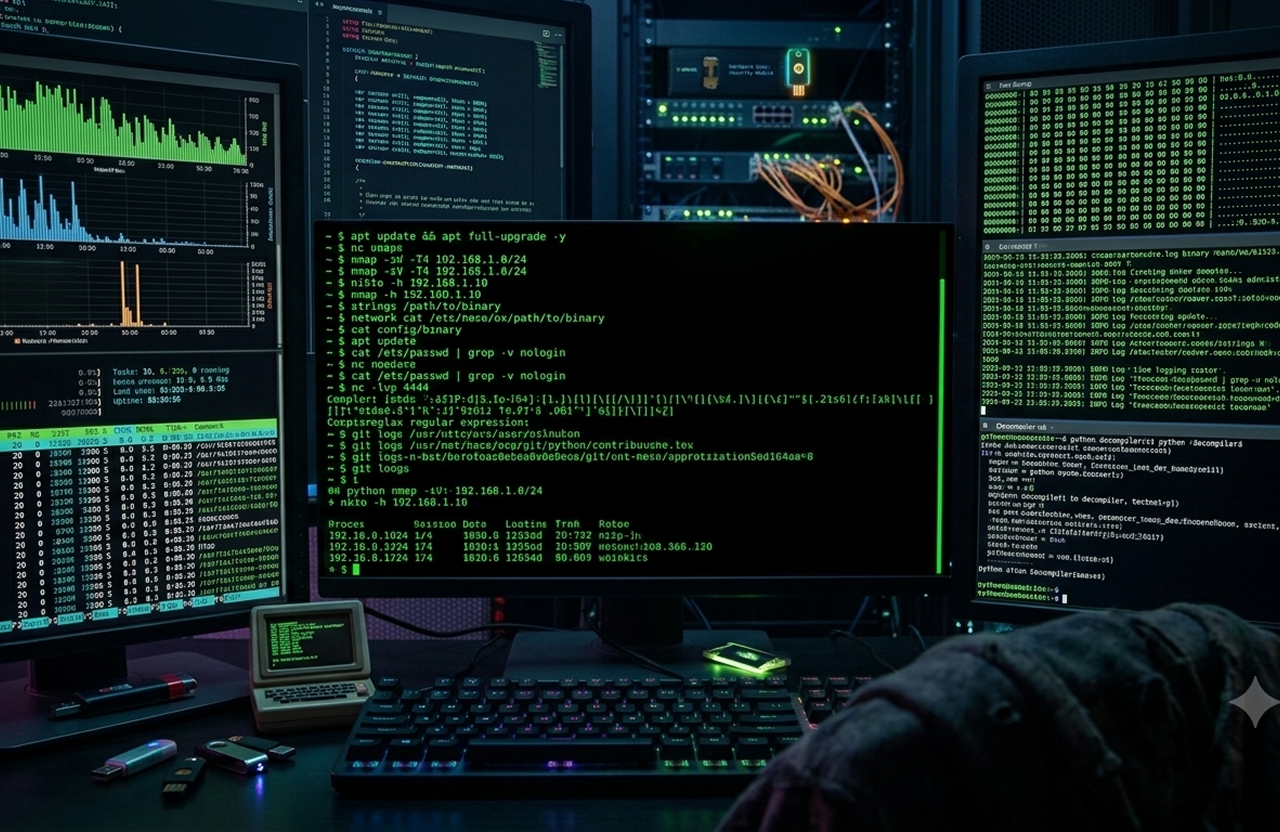
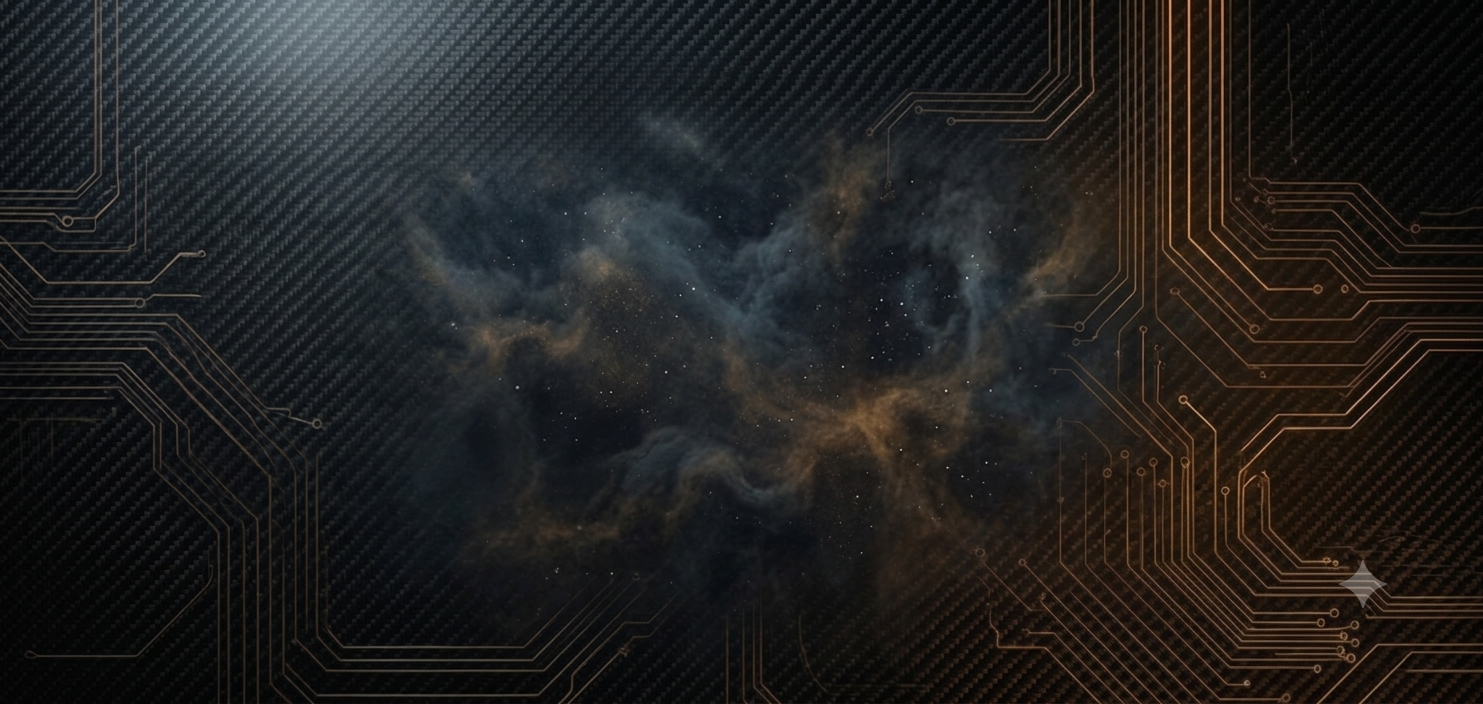
Home page BG

diff --git a/src/components/HomeView.tsx b/src/components/HomeView.tsx
@@ -1,6 +1,7 @@
 import React from 'react';
 import { Users, Calendar, Trophy, FolderCode, ArrowUpRight, ArrowRight, Github, Linkedin, Instagram, Mail, MapPin, Zap, GitBranch } from 'lucide-react';
 import { Event, Member, Settings } from '../types';
+import heroImage from '../assets/images/HeroBG.png';
 
 interface HomeViewProps {
   settings: Settings;
@@ -26,6 +27,18 @@ export default function HomeView({ settings, events, members, setTab, onSelectEv
         id="hero-section"
         style={{ marginTop: '-1px' }}
       >
+        {/* Background image — sits behind every other hero layer */}
+        <div
+          className="absolute inset-0 bg-cover bg-center pointer-events-none"
+          style={{ backgroundImage: `url(${heroImage})` }}
+          id="hero-image-bg-container"
+        />
+
+        {/* Dark overlay — stronger on the left where the headline sits, so text stays legible */}
+        <div
+          className="absolute inset-0 bg-gradient-to-r from-black/92 via-black/70 to-black/55 pointer-events-none"
+          aria-hidden="true"
+        />
         {/* Fine grain — keeps the black from feeling flat */}
         <div className="absolute inset-0 hero-grain pointer-events-none" aria-hidden="true" />
 

diff --git a/src/components/ContactView.tsx b/src/components/ContactView.tsx
@@ -8,10 +8,9 @@ interface ContactViewProps {
 
 export default function ContactView({ settings }: ContactViewProps) {
   const socials = settings.socialLinks || {
-    email: "[email redacted]",
+    email: "[email redacted]",
     instagram: "https://instagram.com/sbce_codingclub",
     linkedin: "https://linkedin.com/company/sbce-codingclub",
-    github: "https://github.com/sbce-codingclub",
     location: "Sree Buddha College of Engineering, Pattoor, Nooranad, Alappuzha, Kerala - 690529",
     mapEmbedUrl: "https://www.google.com/maps/embed?pb=!1m18!1m12!1m3!1d3936.815309325603!2d76.6042171147889!3d9.171249993421379!2m3!1f0!2f0!3f0!3m2!1i1024!2i768!4f13.1!3m3!1m2!1s0x3b06117f77777777%3A0x6b4f707cfbdfa9f7!2sSree%20Buddha%20College%20of%20Engineering%20%2C%20Pattoor!5e0!3m2!1sen!2sin!4v1626245999999!5m2!1sen!2sin"
   };
@@ -20,7 +19,6 @@ export default function ContactView({ settings }: ContactViewProps) {
     { label: 'Email Desk', value: socials.email, href: `mailto:${socials.email}`, icon: Mail },
     { label: 'Instagram', value: '@sbce_codingclub', href: socials.instagram, icon: Instagram },
     { label: 'LinkedIn', value: 'SBCE Coding Club', href: socials.linkedin, icon: Linkedin },
-    { label: 'GitHub Organization', value: 'sbce-codingclub', href: socials.github, icon: Github },
   ];
 
   return (